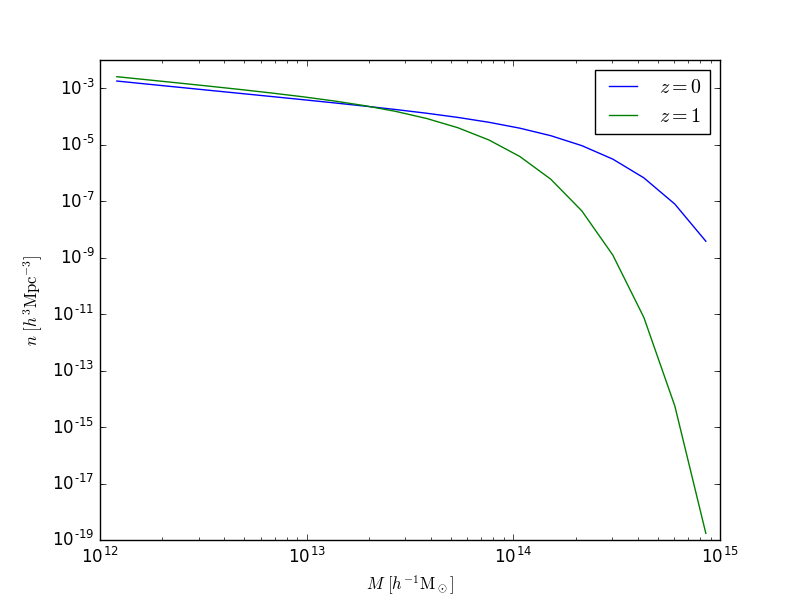
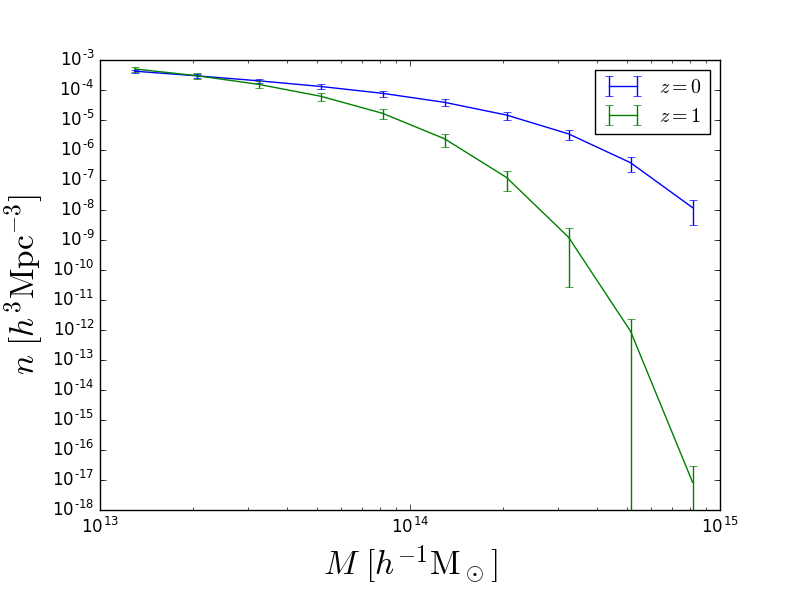
Added the other tinker parameters to the derivative. Need to update the emulator code as well.

diff --git a/tinker_mass_function.py b/tinker_mass_function.py
@@ -10,7 +10,7 @@ import numpy as np
 
 TOL = 1e-3
 
-class MF_model(object):
+class TMF_model(object):
     """
     This function takes in low and high log_10 mass
     values and creates bins (i.e. an Nbinsx2 array 
@@ -28,31 +28,27 @@ class MF_model(object):
     Optionally you can pass in log_10 of the mass bounds
     to build the spline between.
     """
-    def __init__(self,cosmo_dict,redshift,l10M_bounds=[11,16],use_numerical_derivatives=False):
+    def __init__(self,cosmo_dict,redshift,l10M_bounds=[11,16]):
         self.l10M_bounds = l10M_bounds #log_10 Mass bounds in Msun/h
         self.redshift = redshift
         self.scale_factor = 1./(1.+self.redshift)
         self.set_new_cosmology(cosmo_dict)
         self.params_are_set = False
-        self.use_numerical_derivatives = use_numerical_derivatives
 
     def set_parameters(self,d,e,f,g):
         """
-        Specify the tinker parameters and calculate quantities
-        that only depend on them.
+        Specify the tinker parameters and calculate
+        quantities that only depend on them.
         """
-
-        self.d = d
-        self.e = e
-        self.f = f
-        self.g = g
-        self.params = np.array([self.d,self.e,self.f,self.g])
+        self.params = np.array([d,e,f,g])
         self.B_coefficient = 2.0/(e**d * g**(-d/2.)*special.gamma(d/2.) + g**(-f/2.)*special.gamma(f/2.))
-        self.dBdd = self.B_coefficient**2/4.*e**d*g**(-d/2.)*special.gamma(d/2.)*(np.log(g)-2-special.digamma(d/2.))
-        self.dBde = self.B_coefficient**2/2.*(-d)*e**(d-1)*g**(-d/2.)*special.gamma(d/2)
-        self.dBdf = self.B_coefficient**2/4.*g**(-f/2.)*special.gamma(f/2.)*(np.log(g)-special.digamma(f/2.))
-        self.dBdg = self.B_coefficient**2/4.*(d*e**d*g**(-d/2.-1)*special.gamma(d/2.)+f*g**(-f/2.-1)*special.gamma(f/2.))
+        B = self.B_coefficient
+        self.dBdd = B**2/4.*e**d*g**(-d/2.)*special.gamma(d/2.)*(np.log(g)-2-special.digamma(d/2.))
+        self.dBde = B**2/2.*(-d)*e**(d-1)*g**(-d/2.)*special.gamma(d/2)
+        self.dBdf = B**2/4.*g**(-f/2.)*special.gamma(f/2.)*(np.log(g)-special.digamma(f/2.))
+        self.dBdg = B**2/4.*(d*e**d*g**(-d/2.-1)*special.gamma(d/2.)+f*g**(-f/2.-1)*special.gamma(f/2.))
         self.params_are_set = True
+        return
 
     def set_new_cosmology(self,cosmo_dict):
         G = 4.52e-48 #Newton's gravitional constant in Mpc^3/s^2/Solar Mass
@@ -62,6 +58,7 @@ class MF_model(object):
         self.rhom=Om*3.*(H0*Mpcperkm)**2/(8*np.pi*G*(H0/100.)**2)#Msunh^2/Mpc^3
         self.cosmo_dict = cosmo_dict
         self.build_splines()
+        return
 
     def build_splines(self):
         lM_min,lM_max = self.l10M_bounds
@@ -71,6 +68,7 @@ class MF_model(object):
         deriv_spline = ln_sig_inv_spline.derivative()
         self.deriv_spline = deriv_spline
         self.splines_built = True
+        return
 
     """
     The following functions are only used in 
@@ -117,56 +115,42 @@ class MF_model(object):
         return g_sigma * self.rhom * self.deriv_spline(M)
 
     """
-    This is the analytic derivative of n 
-    for each bin with respect to f and g.
+    This gives the uncertainty in the calculated quantity in each bin.
     """
-    def derivs_in_bins(self,lM_bins):
+    def derivs_in_bins(self,lM_bins,use_numerical_derivatives=False):
         lM_bins = np.log(10**lM_bins)
-        dndf,dndg = [],[]
-        for lMlow,lMhigh in lM_bins:
-            if not self.use_numerical_derivatives:
-                dndf.append(integrate.quad(self.ddf_dndlM_at_lM,lMlow,lMhigh,args=(self.params))[0])
-                dndg.append(integrate.quad(self.ddg_dndlM_at_lM,lMlow,lMhigh,args=(self.params))[0])
-            else:
-                params = np.copy(self.params)
-                Df = 0.1
-                Dg = 0.1
-                self.set_parameters(params[0],params[1],params[2]+Df/2.,params[3])
-                upper = integrate.quad(self.dndlM_at_lM,lMlow,lMhigh,args=(self.params))[0]
-                self.set_parameters(params[0],params[1],params[2]-Df/2.,params[3])
-                lower = integrate.quad(self.dndlM_at_lM,lMlow,lMhigh,args=(self.params))[0]
-                dndf.append((upper-lower)/Df)
-                self.set_parameters(params[0],params[1],params[2],params[3]+Dg/2.)
-                upper = integrate.quad(self.dndlM_at_lM,lMlow,lMhigh,args=(self.params))[0]
-                self.set_parameters(params[0],params[1],params[2],params[3]-Dg/2.)
-                lower = integrate.quad(self.dndlM_at_lM,lMlow,lMhigh,args=(self.params))[0]
-                dndg.append((upper-lower)/Dg)
-                self.set_parameters(params[0],params[1],params[2],params[3])
-        #Still need to propagate the derivatives here.
-        return np.array([dndf,dndg])
-
-    """
-    This is the variance in all bins.
-    The variable 'variances' contains the
-    variance in the paramters, namely f and g.
-    """
-    def variance_in_bins(self,lM_bins,variances):
-        dndf,dndg = self.derivs_in_bins(lM_bins)
-        return dndf**2*variances[0] + dndg**2*variances[1]
+        dndp = np.zeros((4,len(lM_bins)))
+        deriv_functions = [self.ddd_dndlM_at_lM,self.dde_dndlM_at_lM,self.ddf_dndlM_at_lM,self.ddg_dndlM_at_lM]
+        for i in range(len(lM_bins)):
+            lMlow,lMhigh = lM_bins[i]
+            for j in range(4):
+                if not use_numerical_derivatives: 
+                    dndp[j,i]= integrate.quad(deriv_functions[j],lMlow,lMhigh,args=(self.params))[0]
+                else:
+                    pc_up   = np.copy(self.params)
+                    pc_down = np.copy(self.params)
+                    Dp = 0.1
+                    pc_up[j]   += Dp/2.
+                    pc_down[j] -= Dp/2.
+                    self.set_parameters(pc_up[0],pc_up[1],pc_up[2],pc_up[3])
+                    upper = integrate.quad(self.dndlM_at_lM,lMlow,lMhigh,args=(self.params))[0]
+                    self.set_parameters(pc_down[0],pc_down[1],pc_down[2],pc_down[3])
+                    lower = integrate.quad(self.dndlM_at_lM,lMlow,lMhigh,args=(self.params))[0]
+                    dndp[j,i] = (upper-lower)/dp
+        return dndp
 
     """
     Similar to the above, this gives the full
     covariance matrix between the bins.
-    'Variances' contain the variance of f
-    and then the variance of g.
+    Cov_p contains the covariance matrix between d,e,f,g.
     """
-    def covariance_in_bins(self,lM_bins,variances,fg_covariance=0):
-        #Still need to propagate derivatives here.
-        dndf,dndg = self.derivs_in_bins(lM_bins)
+    def covariance_in_bins(self,lM_bins,Cov_p):
+        dndp = self.derivs_in_bins(lM_bins)
+        if len(np.shape(Cov_p)) == 1: Cov_p = np.diag(Cov_p)
         cov = np.zeros((len(lM_bins),len(lM_bins)))
         for i in range(len(lM_bins)):
-            cov[i] = dndf[i]*dndf*variances[0] + dndg[i]*dndg*variances[1] + fg_covariance*(dndf[i]*dndg + dndg[i]*dndf)
-            continue #end i
+            for j in range(len(lM_bins)):
+                cov[i,j] = np.dot(dndp[:,i],np.dot(Cov_p,dndp[:,j]))
         return cov
 
     """
@@ -180,19 +164,8 @@ class MF_model(object):
                 self.redshift = redshift
                 self.scale_factor = 1./(1.+redshift)
                 self.build_splines()
-        lM_bins = np.log(10**lM_bins)
+        lM_bins = np.log(10**lM_bins) #switch to natural log
         return np.array([integrate.quad(self.dndlM_at_lM,lMlow,lMhigh,args=(self.params),epsabs=TOL,epsrel=TOL/10.)[0] for lMlow,lMhigh in lM_bins])
-
-    def n_approx_in_bins(self,lM_bins,redshift=None):
-        if not self.params_are_set: raise ValueError("Must set parameters before modeling.")
-        if redshift is not None:
-            if redshift != self.redshift:
-                self.redshift = redshift
-                self.scale_factor = 1./(1.+redshift)
-                self.build_splines()
-        lM_bins = np.log(10**lM_bins)
-        answer = np.array([0.5*(lM_high-lM_low)*(self.dndlM_at_lM(lM_high,self.params)+self.dndlM_at_lM(lM_low,self.params)) for lM_low,lM_high in lM_bins])
-        return answer
 
 if __name__ == "__main__":
     #An example cosmology
@@ -200,23 +173,32 @@ if __name__ == "__main__":
                   "ok":0.0,"h":0.7,"s8":0.77,\
                   "ns":3.0,"w0":.96,"wa":0.0}
 
-    MF = MF_model(cosmo_dict,redshift=0.0)
+    #Create a TMF object
+    TMF = TMF_model(cosmo_dict,redshift=0.0)
 
-    d,e,f,g = 1.97,1.0,0.51,1.228 #d,e,f,g
-    MF.set_parameters(d,e,f,g)
+    #The tinker parameters -- example values
+    TMF.set_parameters(1.97,1.0,0.51,1.228)
 
-    lM_bins = MF.make_bins(Nbins=10,lM_low=12,lM_high=15)
+    #Some pretend bins in log_10 M_sun/h
+    lM_bins = TMF.make_bins(Nbins=10,lM_low=13,lM_high=15)
     Masses = np.mean(10**lM_bins,1) #The mid points of the bins, just for plotting
-    n_z0 = MF.n_in_bins(lM_bins)
-    n_var_z0 = MF.variance_in_bins(lM_bins,[0.01,0.01])
-    n_z1 = MF.n_in_bins(lM_bins,1.0)
+    n_z0 = TMF.n_in_bins(lM_bins)
+    Cov_p = np.diag(np.ones((4))*0.01)
+    n_cov_z0 =TMF.covariance_in_bins(lM_bins,Cov_p)
+    n_err_z0 = np.sqrt(np.diagonal(n_cov_z0))
 
-    print MF.derivs_in_bins(lM_bins)
+    #Now at z=1.0
+    n_z1 = TMF.n_in_bins(lM_bins,redshift=1.0)
+    n_cov_z1 =TMF.covariance_in_bins(lM_bins,Cov_p)
+    n_err_z1 = np.sqrt(np.diagonal(n_cov_z1))
 
     import matplotlib.pyplot as plt
-    plt.loglog(Masses,n_z1,label=r"$z=1$")
-    plt.errorbar(Masses,n_z0,np.sqrt(n_var_z0),label=r"$z=0$")
-    plt.ylabel(r"$n\ [h^3{\rm Mpc^{-3}}]$")
-    plt.xlabel(r"$M\ [h^{-1}{\rm M}_\odot]$")
+    plt.errorbar(Masses,n_z0,n_err_z0,label=r"$z=0$")
+    plt.errorbar(Masses,n_z1,n_err_z1,label=r"$z=1$")
+    plt.xscale('log')
+    plt.yscale('log')
+    plt.xlabel(r"$M\ [h^{-1}{\rm M}_\odot]$",fontsize=24)
+    plt.ylabel(r"$n\ [h^3{\rm Mpc^{-3}}]$",fontsize=24)
+    plt.subplots_adjust(bottom=0.15)
     plt.legend()
     plt.show()

diff --git a/examples/example.py b/examples/example.py
@@ -6,15 +6,15 @@ cosmo_dict = {"om":0.3,"ob":0.05,"ol":1.-0.3,\
                   "ns":3.0,"w0":.96,"wa":0.0}
 redshift = 0.0
 
-MF = TMF.MF_model(cosmo_dict,redshift)
+example_TMF = TMF.TMF_model(cosmo_dict,redshift)
 
 d,e,f,g = 1.97,1.0,0.51,1.228 #d,e,f,g
-MF.set_parameters(d,e,f,g)
+example_TMF.set_parameters(d,e,f,g)
 
-lM_bins = MF.make_bins(Nbins=20,lM_low=12,lM_high=15)
+lM_bins = example_TMF.make_bins(Nbins=20,lM_low=12,lM_high=15)
 Masses = np.mean(10**lM_bins,1) #The mid points of the bins, just for plotting
-n_z0 = MF.n_in_bins(lM_bins)
-n_z1 = MF.n_in_bins(lM_bins,1.0)
+n_z0 = example_TMF.n_in_bins(lM_bins)
+n_z1 = example_TMF.n_in_bins(lM_bins,1.0)
 
 import matplotlib.pyplot as plt
 plt.loglog(Masses,n_z0,label=r"$z=0$")
